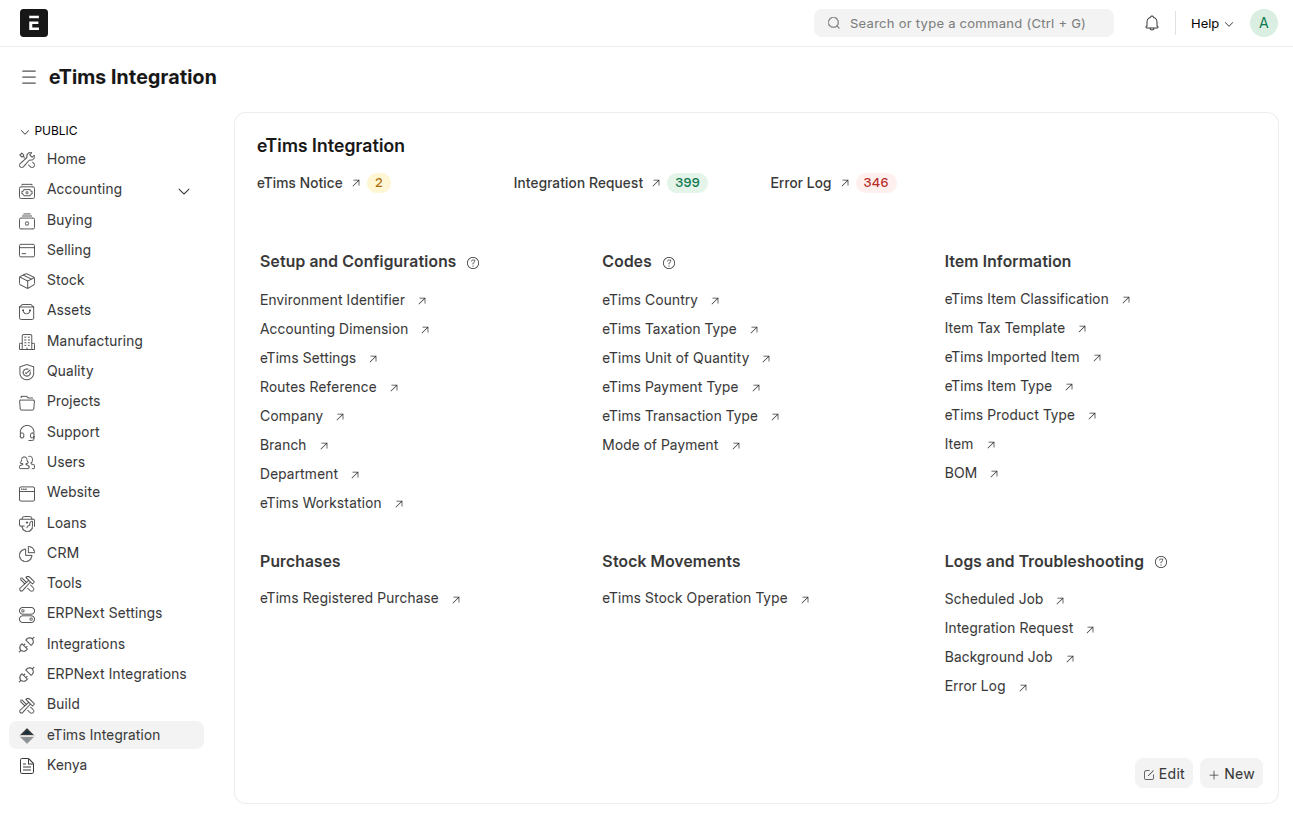
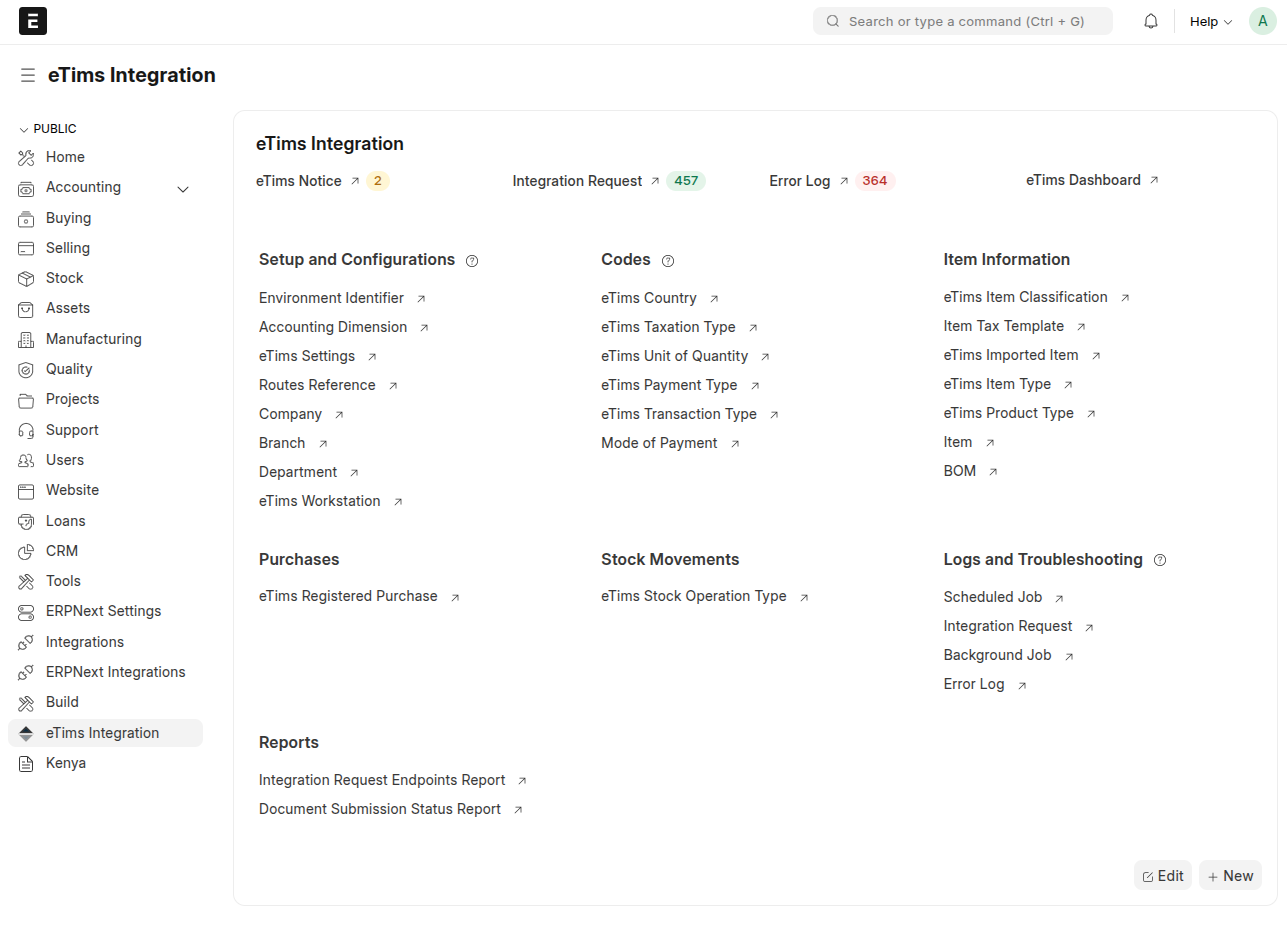
feat: add Dashboard & Reports documentation

diff --git a/kenya_compliance_via_slade/docs/dashboard_reports.md b/kenya_compliance_via_slade/docs/dashboard_reports.md
@@ -1,0 +1,80 @@
+# Dashboard & Reports
+
+This section provides an overview of key reports and dashboards, offering insights into document submissions, request tracking, and real-time eTims integration.
+
+---
+
+## 📊 **Submission Report**
+
+![Submission Report](images/submission_report.png)
+
+The **Submission Report** offers a comprehensive view of all critical documents sent to eTims. It helps track submission status and ensures compliance with regulatory requirements.
+
+### Key Documents Tracked:
+
+- **Sales Invoice** – Monitor successful submissions and track any pending or failed invoices.
+- **Item** – Ensure items are registered correctly with eTims and validate their compliance.
+- **Purchase Invoice** – Keep records of all supplier invoices and ensure they align with eTims regulations.
+- **Stock Ledger Entry (SLE)** – Track inventory movements and ensure real-time updates to eTims.
+
+✅ **Features:**
+
+- View submission statuses: Pending, Successful, Failed.
+- Detailed logs for each document type.
+- Identify errors and correct submission failures.
+
+---
+
+## 🔍 **Request Tracking Report**
+
+![Request Tracking Report](images/integration_req_reports.png)
+
+The **Request Tracking Report** tracks all integrations through the Integration Request doctype, providing a detailed report of each API URL by route key. It monitors the different statuses for each request.
+
+### What It Tracks:
+
+- **API Requests** – Logs every submission sent to eTims.
+- **Responses** – Tracks eTims responses and statuses.
+- **Error Handling** – Identifies failed requests and highlights areas requiring attention.
+
+✅ **Features:**
+
+- Real-time tracking of all eTims communication.
+- Detailed request-response logs for auditing.
+- Instant identification of failed or incomplete transactions.
+
+---
+
+## 📈 **eTims Dashboard**
+
+![eTims Dashboard](images/dashboard.png)
+
+The **eTims Dashboard** provides a real-time overview of all eTims-related activities, helping you manage compliance and track submissions efficiently.
+
+### Dashboard Insights:
+
+#### 📌 **Key Metrics & Cards:**
+
+- **Total Successful Requests** – Displays the total number of successfully processed requests.
+- **Total Failed Requests** – Tracks all failed eTims submissions.
+- **Registered Items** – Shows the number of successfully registered items in eTims.
+- **Pending Item Submissions** – Lists items that are yet to be submitted.
+- **Signed Invoices** – Indicates the total number of invoices successfully signed and submitted.
+- **Pending Invoice Submissions** – Highlights invoices waiting for submission.
+- **Failed Invoices** – Tracks invoices that failed during submission.
+- **Failed Credit Notes** – Displays credit notes that were not successfully processed.
+
+#### 📊 **Charts & Visual Insights:**
+
+- **Document Submission Status** – Provides a full-width graphical representation of submission statuses (Pending, Successful, Failed).
+- **Integration Request Endpoints** – Displays a full-width chart summarizing API requests, endpoints, and responses.
+
+✅ **Features:**
+
+- Visual summary of submission statuses.
+- Quick access to detailed records and logs.
+- Efficient troubleshooting with error reporting.
+
+---
+
+[<< Previous: Customisations](./customisations.md)

diff --git a/README.md b/README.md
@@ -32,6 +32,8 @@ For more details about eTims and Slade360:
 
 - #### [Customisations](kenya_compliance_via_slade/docs/customisations.md)
 
+- #### [Dashboard & Reports](kenya_compliance_via_slade/docs/dashboard_reports.md)
+
 For a more comprehensive guide and details on the integration, visit our [Complete Guide](https://github.com/navariltd/kenya-compliance-via-slade/wiki).
 
 ## How to Install
@@ -72,4 +74,4 @@ Installing on [FrappeCloud](https://frappecloud.com/docs/introduction) can be ac
 
 This integration goes through an approved third party. Please contact them for installation details at: [etims@savannahinformatics.com](mailto:etims@savannahinformatics.com).
 
-For support, contact us at: [solutions@navari.co.ke](mailto:solutions@navari.co.ke) or visit [Navari](https://navari.co.ke/).
+For support, contact us at: [support@navari.co.ke](mailto:support@navari.co.ke) or visit [Navari](https://navari.co.ke/).

diff --git a/kenya_compliance_via_slade/docs/customisations.md b/kenya_compliance_via_slade/docs/customisations.md
@@ -38,4 +38,4 @@ Record all stock movements meticulously and update eTims accordingly to maintain
 
 [More details about Stock Ledger Entry Doctype](./features/stock_submission.md#stock_submission)
 
-[<< Previous: Key DocTypes](./doctypes.md)
+[<< Previous: Key DocTypes](./doctypes.md) | [Next: Dashboard & Reports >>](/kenya_compliance_via_slade/docs/dashboard_reports.md)
